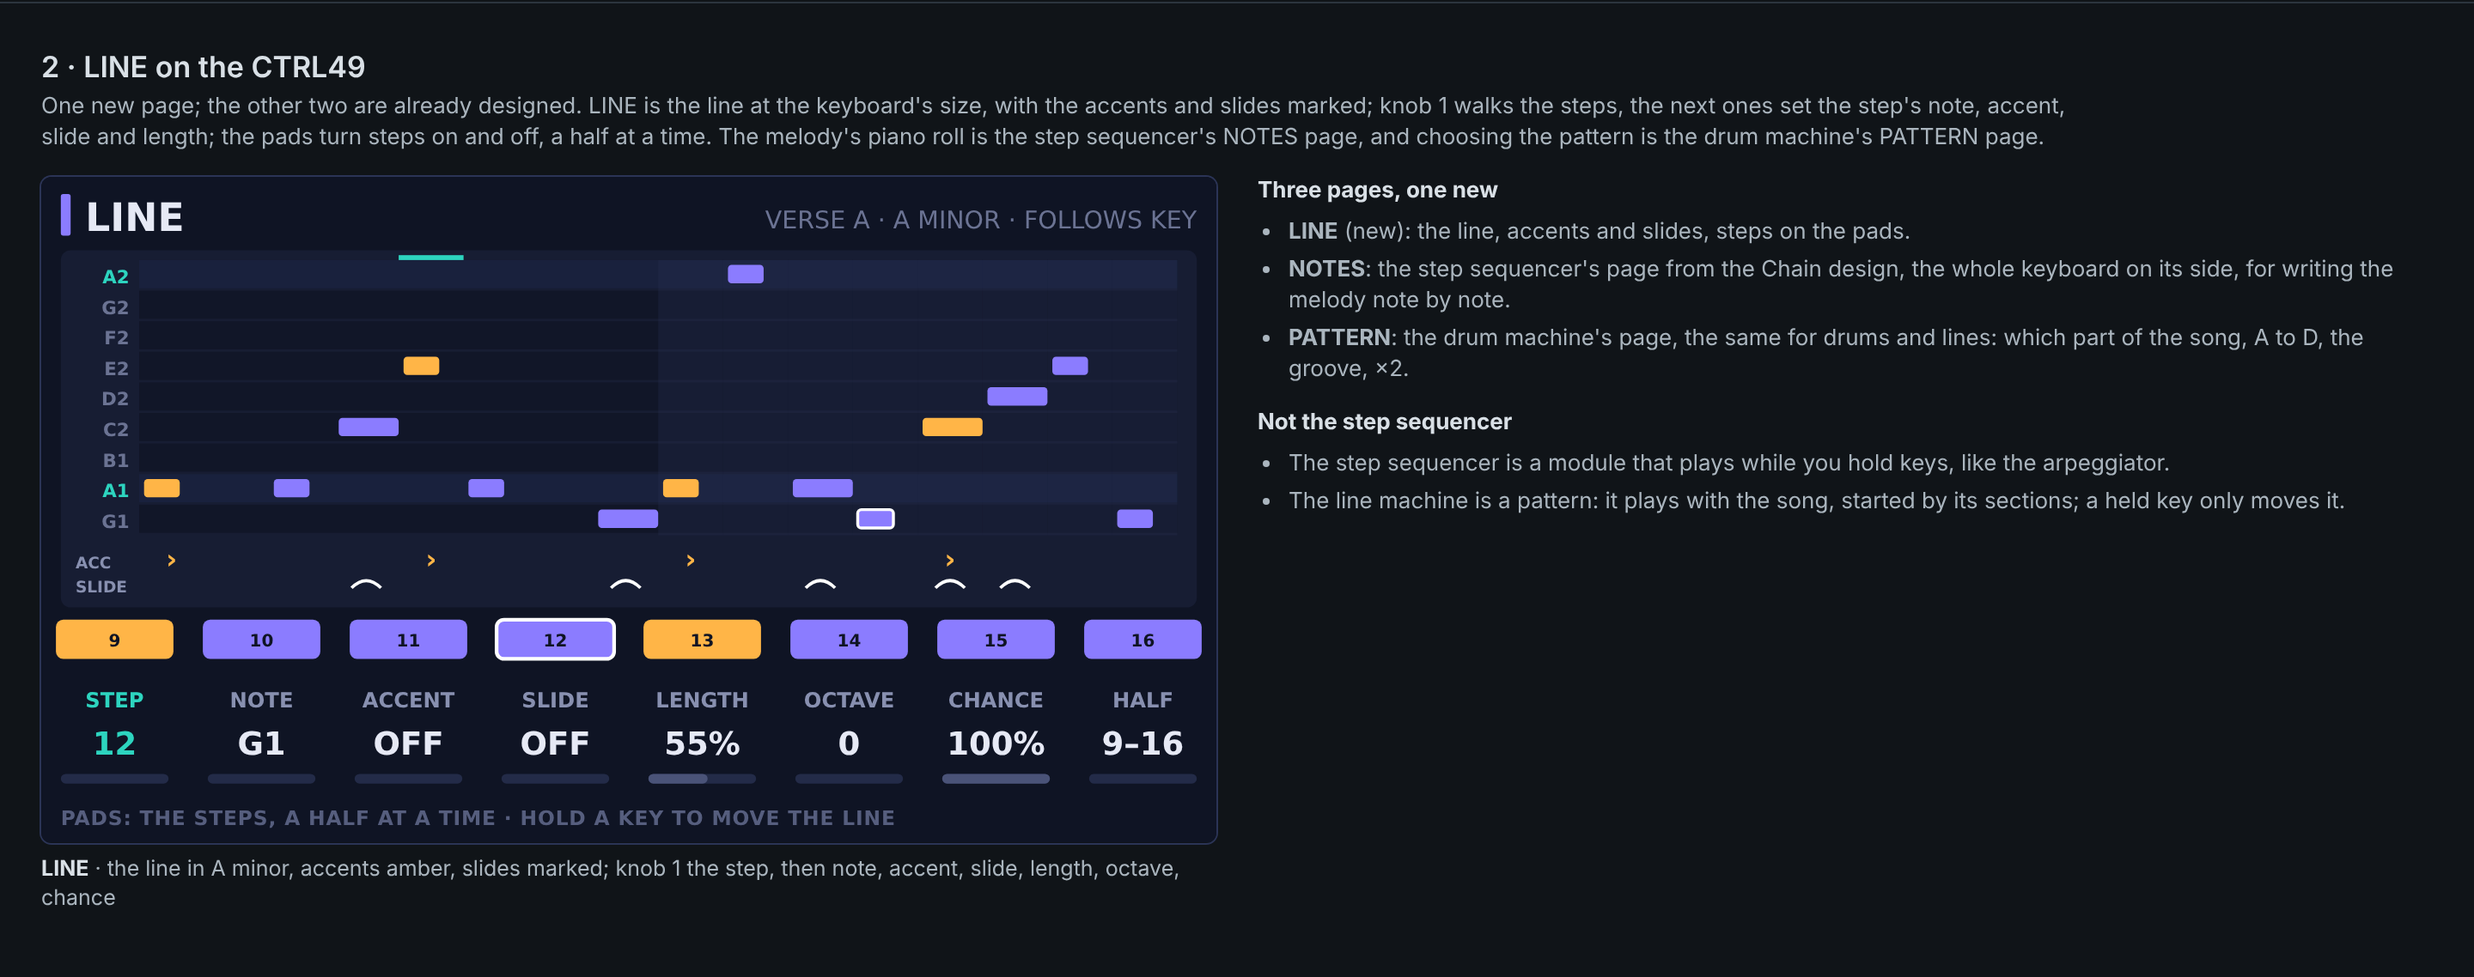
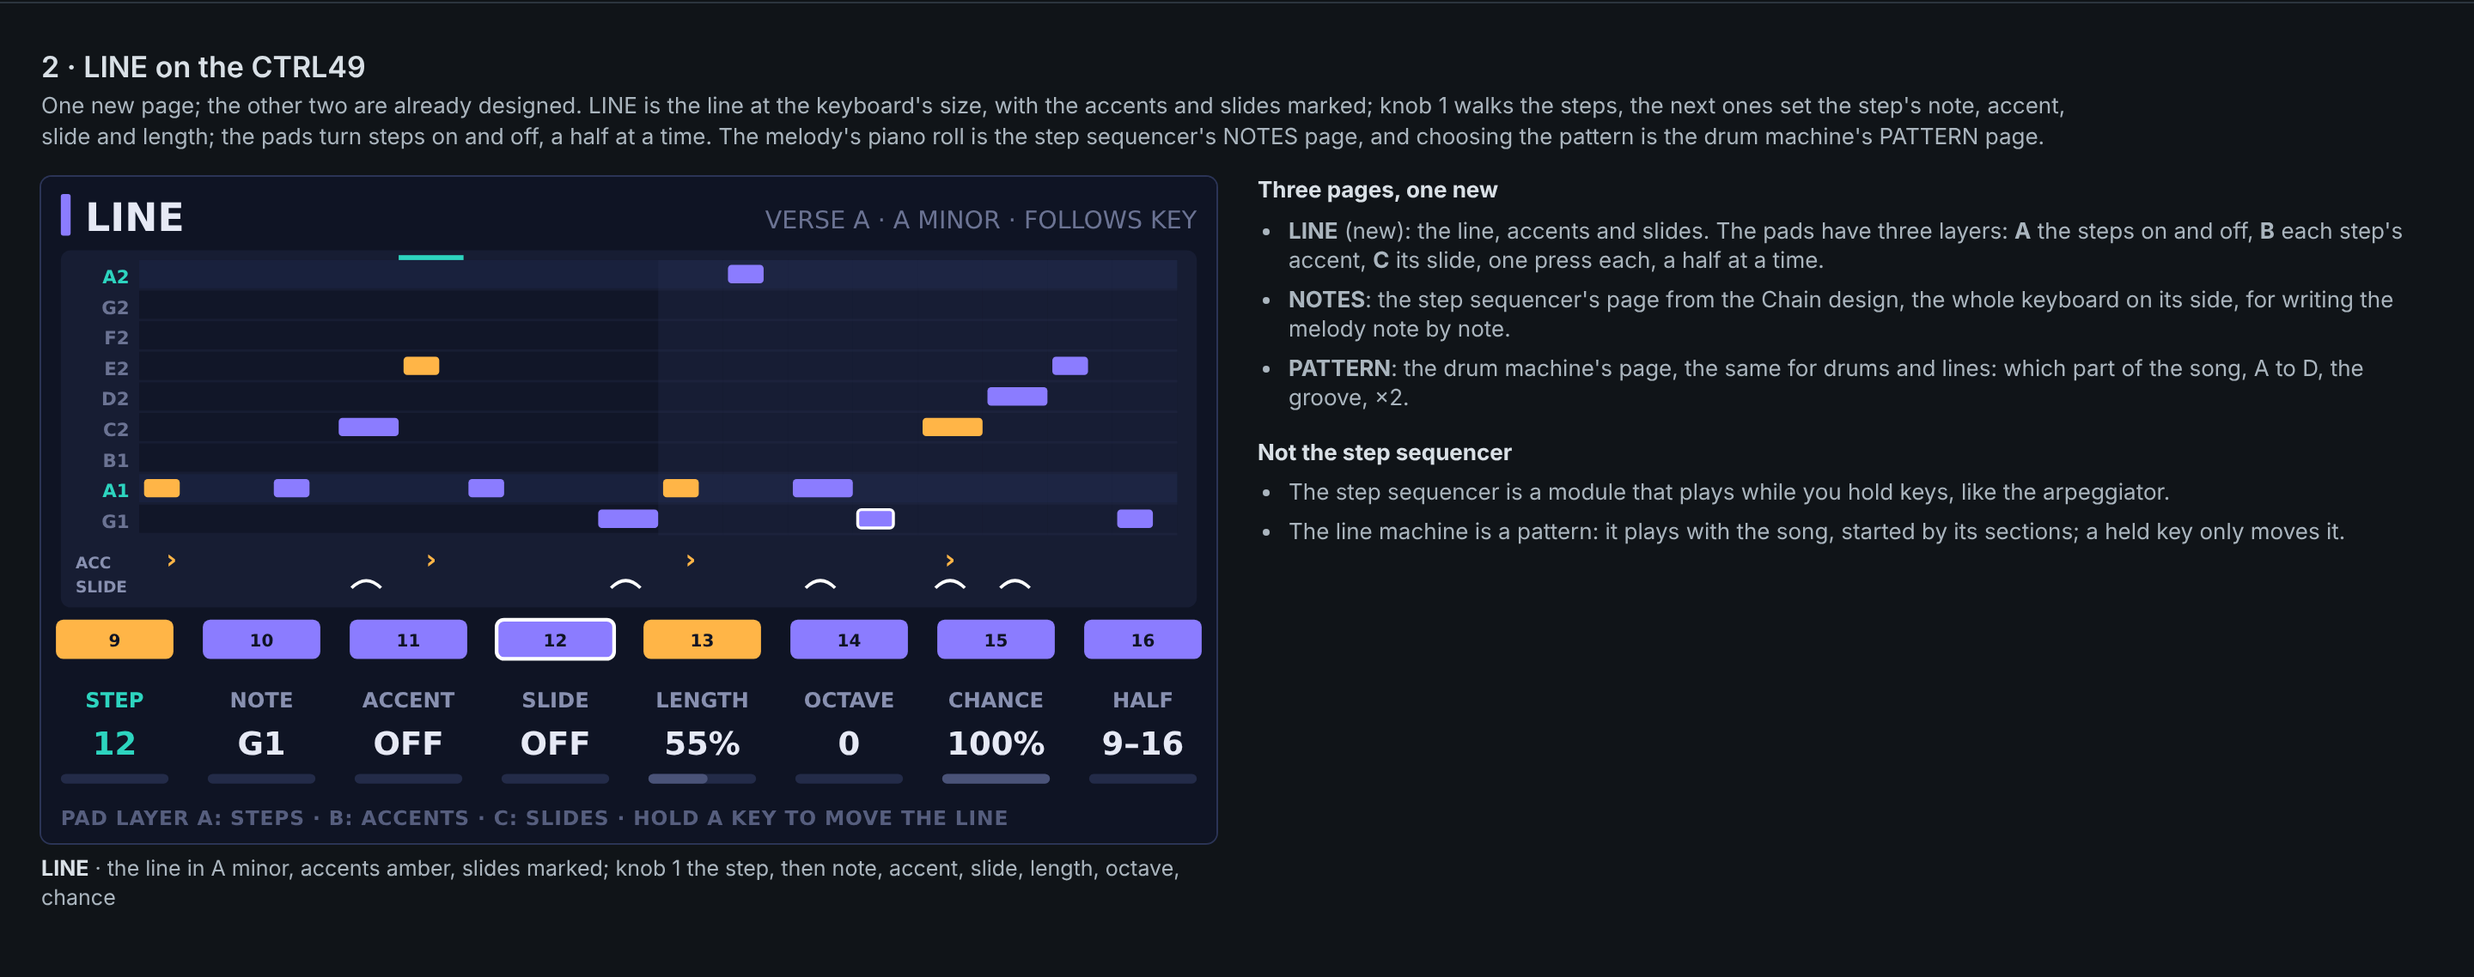
Design: the line machine approved, without the easy way [skip ci]
The owner said to do what is recommended but not to take the easy way, so each recommendation was
checked for where its easy version would fail. Overlapping notes only glide on a synth in mono
legato, so slides glide by the synth, by pitch bend or by portamento CC, and the synth is checked
with a one-click fix. More strength is not heard on a sound that ignores it, so accents are checked
against the library's own dynamics measure and offer a setting to raise instead. Following a held
key now says which keys steer, from this part or another, whether the line keeps its shape or stays
in the key, what it does with no key held, how a chord is fitted, and chromatic notes are allowed.
On the CTRL49 the pads take steps, accents and slides on three layers. A third frame draws it.

Claude-Session: https://claude.ai/code/session_01HyVeCzB98iwNdttddkKjwm

Changed region(s): [[0.5, 0.2153, 0.9688, 0.5536], [0.0312, 0.8304, 0.4062, 0.8612]]

diff --git a/docs/design/hostage-line-mockups.html b/docs/design/hostage-line-mockups.html
@@ -108,13 +108,45 @@
   </div>
   <div class="two"><figure id="p1"></figure>
     <div class="refnotes"><h4>Three pages, one new</h4>
-      <ul><li><b>LINE</b> (new): the line, accents and slides, steps on the pads.</li>
+      <ul><li><b>LINE</b> (new): the line, accents and slides. The pads have three layers: <b>A</b> the steps on and off, <b>B</b> each step's accent, <b>C</b> its slide, one press each, a half at a time.</li>
         <li><b>NOTES</b>: the step sequencer's page from the Chain design, the whole keyboard on its side, for writing the melody note by note.</li>
         <li><b>PATTERN</b>: the drum machine's page, the same for drums and lines: which part of the song, A to D, the groove, ×2.</li></ul>
       <h4>Not the step sequencer</h4>
       <ul><li>The step sequencer is a module that plays while you hold keys, like the arpeggiator.</li>
         <li>The line machine is a pattern: it plays with the song, started by its sections; a held key only moves it.</li></ul>
     </div></div>
+</section>
+
+<section class="frame" id="f3">
+  <div class="caption">
+    <h2>3 · Slide, accent and following, made to work on any synth</h2>
+    <p>The easy versions would fail quietly: a slide on a synth that does not glide is two notes at once, an accent on a sound that ignores
+      strength does nothing, and "follow the key" leaves open which keys and how. So the line machine checks the synth, uses the library's own
+      measure of how a sound answers strength, and says exactly how it follows.</p>
+  </div>
+  <div class="app"><div style="display:grid;grid-template-columns:repeat(3,1fr);gap:12px;padding:12px 14px">
+    <div class="insp" style="width:auto"><span class="lbl">Slide</span><h4>How the slides glide</h4>
+      <div class="kv"><span class="kk">Glide by</span><span class="seg"><span class="on">the synth</span><span>pitch bend</span><span>portamento CC</span></span></div>
+      <div class="say" style="border-left-color:#58a879;background:#20372a">Diva is in mono, legato glide is on: slides will glide. ✓</div>
+      <div class="say" style="border-left-color:#d7a44e;background:#46371d;color:#f1d3a0">If the synth were in poly mode, each slide would sound as two notes. HoSTage reads its mode where the plug-in names it and offers <b>Set mono legato</b>, one click, undoable.</div>
+      <div class="note"><b>Pitch bend</b>: HoSTage bends from note to note itself, for synths without glide, within the bend range (told once, or read from the device profile). <b>Portamento CC</b> (5 and 65): for hardware that answers it. A slide between two of the same note is a tie: held, not started again.</div>
+    </div>
+    <div class="insp" style="width:auto"><span class="lbl">Accent</span><h4>What an accent does</h4>
+      <div class="kv"><span class="kk">Harder by</span><span><span class="field">+30</span> strength</span>
+        <span class="kk">And raises</span><span><span class="field">Cutoff +20 %</span> <span class="note">on accented steps only</span></span></div>
+      <div class="say">Moog Bass answers strength: measured by the library, a hard note is clearly louder and brighter than a soft one. ✓</div>
+      <div class="say" style="border-left-color:#d7a44e;background:#46371d;color:#f1d3a0">A sound that hardly answers strength gets this instead: "This sound barely changes with strength, so accents will not be heard. Raise a setting on accents?" with its likeliest settings offered (cutoff, envelope amount, level).</div>
+      <div class="note">The measure is the library's own (how much harder velocity 100 hits than 40), already taken for every sound it has auditioned.</div>
+    </div>
+    <div class="insp" style="width:auto"><span class="lbl">Follow</span><h4>How the line follows</h4>
+      <div class="kv"><span class="kk">Follows</span><span class="seg"><span>off</span><span class="on">a key</span><span>a chord</span></span>
+        <span class="kk">Played on</span><span class="seg"><span class="on">this part's keys</span><span>1 · Grand Piano</span></span>
+        <span class="kk">Moves</span><span class="seg"><span class="on">keeps its shape</span><span>stays in the key</span></span>
+        <span class="kk">No key held</span><span class="seg"><span class="on">the last one</span><span>as written</span></span></div>
+      <div class="say">The keys of this part's zone (C1–B2) steer the line and do not sound themselves. Holding F moves every note by the same distance as A to F, so the line keeps its shape; let go and it stays on F until another key.</div>
+      <div class="note">"A chord" listens to a chord held on this part, or on another (the pianist's right hand), and moves each note to the nearest note of that chord, roots to the root. The roll shows the key's notes; <b>Chromatic</b> shows all twelve for a passing note, marked as outside the key.</div>
+    </div>
+  </div></div>
 </section>
 
 <script>
@@ -159,7 +191,7 @@
     [8, 9, 10, 11, 12, 13, 14, 15].forEach((st, i) => { const x = i * 60 + 6, on = !!STEPS[st]; s += `<rect x="${x}" y="181" width="48" height="16" rx="3" fill="${on ? (STEPS[st][1] ? C.amber : C.violet) : C.raised}" ${st === 11 ? 'stroke="#fff" stroke-width="1.5"' : ''}/>` + T(x + 24, 192, `${st + 1}`, on ? C.bg : C.label, 7, "text-anchor='middle' font-weight='700'"); });
     [['STEP', '12', 1], ['NOTE', 'G1'], ['ACCENT', 'OFF'], ['SLIDE', 'OFF'], ['LENGTH', '55%', 0, .55], ['OCTAVE', '0'], ['CHANCE', '100%', 0, 1], ['HALF', '9–16']].forEach(([l, v, f, b], i) => { const cx = i * 60 + 30;
       s += T(cx, 217, l, f ? C.teal : C.label, 8.5, "text-anchor='middle' font-weight='700'") + T(cx, 236, v, f ? C.teal : C.text, 13, "text-anchor='middle' font-weight='600'") + `<rect x="${i * 60 + 8}" y="244" width="44" height="4" rx="2" fill="${C.raised}"/>` + (b ? `<rect x="${i * 60 + 8}" y="244" width="${44 * b}" height="4" rx="2" fill="${C.bar}"/>` : ''); });
-    s += T(8, 265, 'PADS: THE STEPS, A HALF AT A TIME · HOLD A KEY TO MOVE THE LINE', C.foot, 8.2, "font-weight='600' letter-spacing='0.3'");
+    s += T(8, 265, 'PAD LAYER A: STEPS · B: ACCENTS · C: SLIDES · HOLD A KEY TO MOVE THE LINE', C.foot, 8.2, "font-weight='600' letter-spacing='0.3'");
     document.getElementById('p1').innerHTML = `<svg viewBox="0 0 480 272" xmlns="http://www.w3.org/2000/svg">${s}</svg><figcaption><b>LINE</b> · the line in A minor, accents amber, slides marked; knob 1 the step, then note, accent, slide, length, octave, chance</figcaption>`; }
 </script>
 </body>

diff --git a/docs/design/hostage-line-design.md b/docs/design/hostage-line-design.md
@@ -1,9 +1,12 @@
 # HoSTage: the line machine
 
-*Design with mockups for the owner to approve, 2026-11-19. Nothing built. Feature 11 of
-`hostage-build-features-2.md`, taken: the drum grid's twin for basslines and synth lines. Mockups:
-`hostage-line-mockups.html`, pictures `docs/media/hostage-line-1.png` (the dock) and `-2.png` (the
-LINE page on the CTRL49). When this and the code disagree, the code is right.*
+*Design with mockups, approved on 2026-11-19 at the owner's word: "Do what you think is recommended
+but do not take the easy way." So the four recommendations were taken, and each was first checked for
+where its easy version would fail; sections 3 and 4 are the result. Nothing built. Feature 11 of
+`hostage-build-features-2.md`: the drum grid's twin for basslines and synth lines. Mockups:
+`hostage-line-mockups.html`, pictures `docs/media/hostage-line-1.png` (the dock), `-2.png` (the LINE
+page on the CTRL49) and `-3.png` (slide, accent and following). When this and the code disagree,
+the code is right.*
 
 ## What it is for
 
@@ -50,27 +53,75 @@ in the song's key, playing with the song. Hold a key and the whole line moves to
 
 - **LINE**, the one new page: the line at the keyboard's size, in the key's rows, accents and slides
   marked. Knob 1 walks the steps; the next set the step's note, accent, slide, length, octave and
-  chance. The pads turn steps on and off, a half at a time.
+  chance.
+- **The pads on three layers**, a half of the steps at a time: **A** each step on or off, **B** its
+  accent, **C** its slide. One press per step, instead of a knob turned per step: the pads already
+  have four layers with their own colours (Controller design).
 - **NOTES** is the step sequencer's page (Chain design), for writing the melody on the whole keyboard.
 - **PATTERN** is the drum machine's page, the same for drums and lines.
 - Which knob and pad does what is settled when the pages are built (the record's rules carried
   over).
 
+## 3. Slides that glide on any synth
+
+![Slide, accent and following](../media/hostage-line-3.png)
+
+The easy slide, overlapping two notes, only glides on a synth set to mono with legato glide; on a
+polyphonic synth it is two notes at once. So:
+
+- **Glide by**, for the line: **the synth** (overlapping notes, its own glide), **pitch bend**
+  (HoSTage bends from one note to the next itself, for a synth without glide, within its bend range,
+  told once or read from the device profile), or **portamento CC** (controllers 5 and 65, for hardware
+  that answers them). Nothing in HoSTage handles either of the last two today; both are new.
+- **The synth is checked**: where a plug-in names its voice mode and glide, the line says whether
+  slides will glide ("Diva is in mono, legato glide is on ✓") and, if not, offers **Set mono legato**,
+  one click, undoable.
+- **A slide between two of the same note is a tie**, held and not started again, as note lanes
+  already have.
+
+## 4. Accents that are heard, and following that is exact
+
+**Accent.** The easy accent, more strength, does nothing on a sound that hardly answers strength. The
+library already measures that for every sound it has auditioned (`SonicProfile::dynamics` in
+`Library.h`: how much harder velocity 100 hits than 40). So the accent says whether it will be heard,
+and when the sound barely changes with strength, offers to raise a setting on accented steps instead,
+the likeliest first (cutoff, envelope amount, level).
+
+**Follow.** "Follows the key held" leaves four things open; each is settled:
+
+- **Which keys steer it**: this part's own keys (its zone), which then steer and do not sound
+  themselves; or **another part's**, so the line follows the chord the pianist's right hand holds.
+- **How it moves**: **keeps its shape** (every note moves by the same distance, A to F) or **stays in
+  the key** (moves along the scale).
+- **With no key held**: **the last one** (it stays on F until another key) or **as written**.
+- **A chord**: each note moves to the nearest note of the held chord, the line's root to the chord's
+  root.
+
+**Notes outside the key.** The roll shows the key's notes; **Chromatic** shows all twelve, for a
+passing note, marked as outside the key.
+
 ## What it needs
 
 - **Accent and slide on a step**: two new step settings, the accent's amount and optional setting
-  for the line, and the slide as an overlap into the next note.
-- **Key and follow** for a note lane: the rows from the key, the transposition from the held key,
-  and the fitting to a held chord (the step sequencer's follow does the same while keys are held).
+  for the line, and the slide by overlap, pitch bend or portamento CC.
+- **The synth check**: the plug-in's voice mode and glide read by name where it names them, and the
+  one-click fix; the accent's check from the library's dynamics measure.
+- **Key and follow** for a note lane: the rows from the key (and chromatic), the transposition from
+  a held key by shape or by scale, the latch, the fitting to a held chord, and the keys taken from
+  this part's zone or another part's (the step sequencer's follow does part of this while keys are
+  held).
 - **The LINE block, the dock view and the LINE page** over the pattern model.
 
-## Decisions for the owner
+## Decisions (owner, 2026-11-19: "Do what you think is recommended but do not take the easy way")
 
 1. **A pattern that plays with the song**, not a module played by held keys, with a LINE block at
-   the head of the chain?
-2. **Accent and slide** as drawn: accent harder and optionally brighter, slide by overlapping notes
-   so the synth's own glide plays?
-3. **Key and follow**: rows of the key only, and the line following off, the key held, or the chord
-   held?
-4. **One new page, LINE**, with NOTES and PATTERN shared with the step sequencer and the drum
-   machine?
+   the head of the chain. **Yes.**
+2. **Accent and slide**: **yes, made to work on any synth**: slides glide by the synth, pitch bend or
+   portamento CC, with the synth checked and a one-click fix; accents checked against the library's
+   measure of how the sound answers strength, with a setting to raise when it does not (section 3
+   and 4).
+3. **Key and follow**: **yes, settled exactly**: which keys steer (this part's or another's), how it
+   moves (shape or key), what it does with no key held, how a chord is fitted, and chromatic notes
+   when wanted (section 4).
+4. **One new page, LINE**, with NOTES and PATTERN shared: **yes**, with the pads on three layers for
+   steps, accents and slides (section 2).

diff --git a/docs/design/README.md b/docs/design/README.md
@@ -73,7 +73,7 @@ with an *as built* section per phase.
 | [HoSTage: the drum machine](hostage-drums-design.md) | *Approved with mockups, 2026-11-19; nothing built.* Feature 1 of the second round. A drum part's patterns, which already have drum lanes with strength, chance, repeats, nudge, conditions, polymeter, variations and a held fill, get a drum machine's face: a DRUMS block and grid in the dock, and DRUMS, KIT and PATTERN pages on the CTRL49. It plays the drum instrument you load and has no sounds of its own. Mockups in [hostage-drums-mockups.html](hostage-drums-mockups.html). |
 | [HoSTage: samples, on pads and keys](hostage-sampler-design.md) | *Approved with mockups, 2026-11-19; nothing built.* Feature 12 of the second round. A built-in one-shot sampler, the first round's file player made playable: each sample on a pad and on the keys, one key or a pitched range, sixteen pads a bank, trimmed on its waveform, with fades, level, pitch, choke groups and a note; files collected into the show; SAMPLES and TRIM pages on the CTRL49. A full sampler instrument stays with plug-ins. Mockups in [hostage-sampler-mockups.html](hostage-sampler-mockups.html). |
 | [HoSTage: playing the kit](hostage-kit-design.md) | *Approved with mockups, 2026-11-19; nothing built.* Features 2 and 13 to 18 of the second round, all on the drum machine's pads: five ways for the pads to play (play, repeat, one drum, mute, erase), full strength as a switch (pads with velocity play as hit, with no curve), note repeat swung by the pattern's groove, and doubling a pattern. A Pads panel in the dock and a MODE knob on KIT. Mockups in [hostage-kit-mockups.html](hostage-kit-mockups.html). |
-| [HoSTage: the line machine](hostage-line-design.md) | *Design with mockups for approval, 2026-11-19; nothing built.* Feature 11 of the second round: the drum grid's twin for basslines and synth lines, a pattern on note lanes. A LINE block at the head of the chain; a piano roll in the song's key; accent and slide per step, the slide letting the synth's own glide play; the line following the key or chord held. One new CTRL49 page, LINE. Mockups in [hostage-line-mockups.html](hostage-line-mockups.html). Four decisions for the owner. |
+| [HoSTage: the line machine](hostage-line-design.md) | *Approved with mockups, 2026-11-19; nothing built.* Feature 11 of the second round: the drum grid's twin for basslines and synth lines, a pattern on note lanes. A LINE block at the head of the chain; a piano roll in the song's key; accent and slide per step, made to work on any synth (glide by the synth, pitch bend or portamento, the synth checked; accents checked against how the sound answers strength); the line following a key or chord held on this part or another, keeping its shape or staying in the key. One new CTRL49 page, LINE, with pads for steps, accents and slides. Mockups in [hostage-line-mockups.html](hostage-line-mockups.html). |
 | [The modular chain](modular-chain.md) | *As built.* Instruments, MIDI modules and inserts as separate things: the per-part MIDI insert chain that replaced the welded FX-into-arp pair (with its migration), group buses where several parts become one signal that keeps going, and chain presets that keep a whole voice — instrument, modules, inserts and zone — as one library record. Ends with what it deliberately does not do. |
 | [Reliability, diagnostics and the support bundle](instrument-host-reliability.md) | The baseline's §17 layer, built after the seven functionality stages: the architecture check that keeps an unloadable module out of the browser without calling it broken, safe startup after a plug-in takes the process down, a last-known-good session that is not the crash, and a support bundle gathered by allowlist. Carries the §18.12 handover material for the host as a whole — compatibility matrix, known limitations, failure fixtures and a manual test plan. |
 | [Feature-list completion audit](hostage-feature-completion-audit.md) | Evidence matrix for the 36 requested Hostage additions: persistent/native/UI/test ownership per item, permitted browser verification, and the two remaining completion gates (native rebuild and real out-of-process crash isolation). |

diff --git a/docs/design/hostage-build-features-2.md b/docs/design/hostage-build-features-2.md
@@ -31,7 +31,7 @@ is right.*
 | 8 | **Beatbox it in** | taken; design to come | |
 | 9 | **Step effects**: a lane that changes an effect's setting step by step | taken; design to come | |
 | 10 | **The kick ducks the bass**, from the pattern's own hits | taken; design to come | |
-| 11 | **A line machine**: the drum grid's twin for basslines and synth lines | taken; design with mockups for approval, 2026-11-19 | `hostage-line-design.md` |
+| 11 | **A line machine**: the drum grid's twin for basslines and synth lines | approved with mockups, 2026-11-19 | `hostage-line-design.md` |
 | 12 | **Samples, on pads and keys**: a built-in one-shot sampler, the file player made playable | approved with mockups, 2026-11-19 | `hostage-sampler-design.md` |
 | 13 | **Full strength**: every pad hit at full velocity | approved with mockups, 2026-11-19 (MPK-style playing) | `hostage-kit-design.md` |
 | 14 | **One drum on every pad**, at eight strengths or eight pitches | approved with mockups, 2026-11-19 (MPK-style playing) | `hostage-kit-design.md` |
